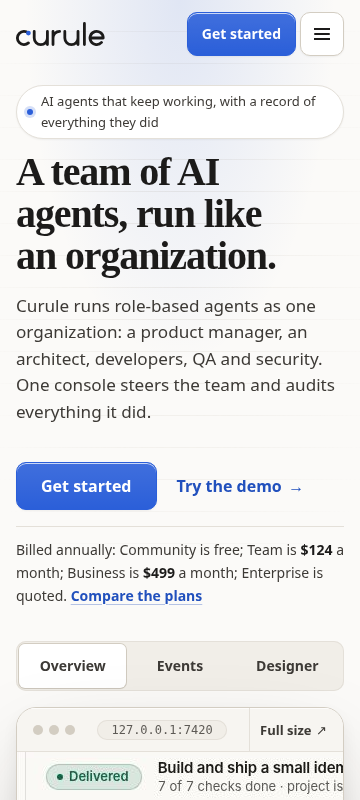
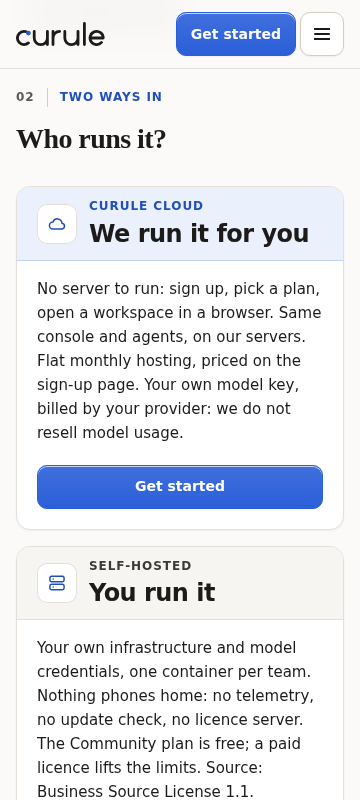
chore(ux): a seventeenth set of three passes of 1 Nov, with their before and after
The marketing site: the two ways in answer once, in one paragraph each (1180ac9).
The account pages: the head at 200% text, and its identity one sentence (0032fad).
The console: the 320 first screen is the same receipt, and its figures keep their units (caa7d6f).
The panel shows where the three surfaces stand now.

diff --git a/site/ux/index.html b/site/ux/index.html
@@ -53,7 +53,55 @@
   <h2>Where they stand now</h2>
   <div class="pair three"><a class="shot" href="shots/landing-now.png"><img src="shots/landing-now.png" alt="the landing page" loading="lazy"><span>the landing page</span></a><a class="shot" href="shots/account-now.png"><img src="shots/account-now.png" alt="the account pages" loading="lazy"><span>the account pages</span></a><a class="shot" href="shots/console-now.png"><img src="shots/console-now.png" alt="the console" loading="lazy"><span>the console</span></a></div>
 </section>
-<p class="stat"><span><b>96</b> passes</span><span><b>95</b> merged</span><span><b>4</b> surfaces</span><span>updated 31 Oct 2026 22:25</span></p>
+<p class="stat"><span><b>99</b> passes</span><span><b>98</b> merged</span><span><b>4</b> surfaces</span><span>updated 1 Nov 2026 04:12</span></p>
+<article class="pass">
+  <header>
+    <h2>the marketing site</h2>
+    <p class="when">1 Nov 2026 &middot; 04:12</p>
+  </header>
+  <div class="pair"><a class="shot" href="shots/20261101-0412-before.png"><img src="shots/20261101-0412-before.png" alt="The two ways in at 360 x 800, light, scrolled to 2,929: the pinned bar, &quot;02 Two ways in&quot; at 88 and &quot;Who runs it?&quot; at 114. The Curule Cloud card runs 186&ndash;594 &mdash; a tinted head 187&ndash;261, a &quot;Who it is for&quot; label at 277 with a three-line answer 302&ndash;374, a &quot;What you pay&quot; label at 388 with a four-line answer 413&ndash;509, and Get started at 529&ndash;573. The self-hosted card begins at 610 and its second answer runs 861&ndash;981, cut by the foot of the frame." loading="lazy"><span>before this pass &middot; the two ways in</span></a><a class="shot" href="shots/20261101-0412-after.png"><img src="shots/20261101-0412-after.png" alt="The same frame after this pass: the same head at 88 and 114, and the Cloud card now runs 186&ndash;530 &mdash; head 187&ndash;261, one seven-line paragraph 277&ndash;445, Get started 465&ndash;509. The self-hosted card begins at 546, 64px higher, its head 547&ndash;620 and its paragraph 636&ndash;804 where the frame ends. Neither card has a label row or a 16px mark." loading="lazy"><span>after</span></a></div>
+  <div class="pair"><a class="shot" href="shots/20261101-0412-before-2.png"><img src="shots/20261101-0412-before-2.png" alt="The same page at 360, scrolled to 3,432: the first card's Get started at 26&ndash;70 and its border closing at 91, then the self-hosted card 107&ndash;563 with its head 108&ndash;182, its two label rows and their four- and five-line answers, and Try the demo at 498&ndash;542. The console's band starts at 611 and its head at 660 is cut at 800; the swipe hint at 854 and the six tabs at 907&ndash;951 are below the frame." loading="lazy"><span>before this pass &middot; what follows the two ways in</span></a><a class="shot" href="shots/20261101-0412-after-2.png"><img src="shots/20261101-0412-after-2.png" alt="The same frame: the first card closes at 27, and the self-hosted card runs 43&ndash;386 &mdash; head 44&ndash;117, one paragraph 133&ndash;301, Try the demo 321&ndash;365. The console band starts at 434, 177px higher, so the frame now holds its head 483&ndash;645, the swipe hint 677&ndash;722 and the six 44px tabs at 730&ndash;774." loading="lazy"><span>after</span></a></div>
+  <ul class="did">
+<li><b>The two ways in answer once, in one paragraph each.</b> Each card's four answers were a definition list: four 25.19px label rows and two 14px gaps in a 455.75px card. They are one paragraph now, and <code>#ways</code> is <b>1,026.05 &rarr; 849.30px</b> at 360, its cards <b>407.75 / 455.75 &rarr; 343.38 / 343.38</b>; at 320 1,153.23 &rarr; 952.48, at 768 646.28 &rarr; 527.91 and at 1,440 651.48 &rarr; 533.11.</li>
+<li><b>Every claim is kept, and the licence card stops repeating the rate card.</b> The one answer that repeated the section 834px above it &mdash; &quot;one open project, up to ten agents, no licence key&quot; &mdash; is gone from the home page; the pricing page's comparison keeps it. The section's words are 134 &rarr; 114 and the four answers 91 &rarr; 81.</li>
+<li><b>The rest of the page comes 177px sooner.</b> The console's band begins at 434 instead of 611 in the second frame: <code>#product</code> 4,042.98 &rarr; 3,866.23 and <code>#try</code> 4,896.08 &rarr; 4,719.33 at 360, and the page 12,891 &rarr; 12,714.</li>
+<li><b>With Curule Cloud closed the one card's paragraph runs in two columns</b>, where its two answers sat side by side before: <code>#ways</code> 633.66 &rarr; 521.28 at 360 and the card 455.75 &rarr; 343.38.</li>
+<li><b>Not worse, measured.</b> Horizontal page scroll <b>0</b> across 70 page/width/theme pairs (seven pages &times; 320/360/390/768/1,440 &times; light and dark); <b>0</b> axe-core WCAG 2.0&ndash;2.2 A/AA violations in 6 reads; no script, forced colours and print all 0px over; the other six pages unchanged at every width.</li>
+</ul>
+  <p class="meta">12 files changed &middot; <code>1180ac9</code> &middot; suite green, merged</p>
+</article>
+<article class="pass">
+  <header>
+    <h2>the account pages</h2>
+    <p class="when">1 Nov 2026 &middot; 04:13</p>
+  </header>
+  <div class="pair"><a class="shot" href="shots/20261101-0413-before.png"><img src="shots/20261101-0413-before.png" alt="The top of the account at 360 x 800, light, with the reader's text at 200% (a 32px root): the 141px bar, the caption at 165&ndash;241.8 over two lines, &quot;Your account&quot; at 249.8&ndash;370.7 over two lines at 56px, and the identity at 374.7&ndash;541.1 over four lines. The contents line is at 558.1&ndash;645.1, 01 Workspaces at 685.1 and the record's top at 746.1; the record's Open is at 908.3, 108.3px below the screen." loading="lazy"><span>before this pass &middot; the head at 200% text</span></a><a class="shot" href="shots/20261101-0413-after.png"><img src="shots/20261101-0413-after.png" alt="The same page, width, scheme and root. The head is 259.6px instead of 417.1: the caption still two lines, the title one line at 43.2px (249.8&ndash;296.5) and the identity two lines (300.4&ndash;383.6). The contents line is at 400.6&ndash;487.6, 01 Workspaces at 527.6, the record at 588.6 and its Open &mdash; the page's primary button, 48px &mdash; at 750.8&ndash;798.8, wholly inside the screen. The page is 3,928px against 4,086." loading="lazy"><span>after</span></a></div>
+  <div class="pair"><a class="shot" href="shots/20261101-0413-before-2.png"><img src="shots/20261101-0413-before-2.png" alt="The signed-in account at 360 x 800, light, at the top: the 61px bar, CURULE CLOUD - YOUR ACCOUNT at 85, &quot;Your account&quot; at 112 in 28px, the identity at 146, the five-link contents line 184&ndash;228, 01 Workspaces at 268 and the record at 306 with Research, Running and Open / Pause / More at 408&ndash;456." loading="lazy"><span>before this pass &middot; the account at normal text</span></a><a class="shot" href="shots/20261101-0413-after-2.png"><img src="shots/20261101-0413-after-2.png" alt="The same frame: every box is where it was &mdash; caption 85, title 112, identity 146, contents 184, 01 Workspaces 268, record 306, Open 408&ndash;456 &mdash; because the two new rules only bite at a raised root. The one measured difference is the identity's paragraph, 305px wide instead of 307." loading="lazy"><span>after</span></a></div>
+  <ul class="did">
+<li><b>At 200% text the head takes one line for its title.</b> 417.1 &rarr; <b>259.6px</b> at 360: the h1 is capped by its own line (<code>min(clamp(&hellip;), 12vw)</code>), so it is 43.2px on one line where it was 56px on two (120.9px), and the identity is a paragraph of inline text, two lines (83.2px) instead of four (166.4).</li>
+<li><b>The record's Open is on the first screen.</b> y 908.3 &rarr; <b>750.8&ndash;798.8</b>, wholly inside an 800px screen; at 390 881.7 &rarr; 769.7 and at 320 951.3 &rarr; 830.2. The page is 4,086 &rarr; 3,928 at 360.</li>
+<li><b>The identity is one sentence, and the address fills each line.</b> <code>#who</code> is a paragraph with <code>word-break: break-all</code>; at normal text it is 305px where the flex row gave 307, and it costs no extra rule at any width.</li>
+<li><b>The plan-less account no longer scrolls sideways at a raised root.</b> Its plan row is <code>minmax(0, 1fr)</code>: 377px wide on a 360 phone &rarr; <b>360</b>, the Team card 361 &rarr; 328, the page 2,722 &rarr; 2,685.</li>
+<li><b>Nothing moves at normal text.</b> The head is 123.2px at 360, the record's Open at y 408.9 and the page 1,904 &mdash; the same at 320/360/390/620/768/1,440; <b>0</b> axe-core WCAG 2.0&ndash;2.2 A/AA violations in 17 reads (dark, forced colours and the raised root included), 0 console errors, 878 cloud tests green.</li>
+</ul>
+  <p class="meta">3 files changed &middot; <code>0032fad</code> &middot; suite green, merged</p>
+</article>
+<article class="pass">
+  <header>
+    <h2>the console</h2>
+    <p class="when">1 Nov 2026 &middot; 04:14</p>
+  </header>
+  <div class="pair"><a class="shot" href="shots/20261101-0414-before.png"><img src="shots/20261101-0414-before.png" alt="The console's Overview at 320 x 800, light, on the delivered demo, scrolled to the top: the 64px topbar, &quot;Overview&quot; at 78, then a 673px hero from 117.6 to 790.6 &mdash; the goal over three lines (67.5px) at 228.4, a 96px block of actions at 303.9 with Open the product across the full 262px and its 44px menu on a row of its own at 355.9, the four figures from 419.9 to 744.6 with &quot;51.0k of&quot; / &quot;2.0M&quot; over two lines, and the Why this is done door. The first evidence row begins at 802.6, 55.6px below the 53px dock at 747." loading="lazy"><span>before this pass &middot; the 320 first screen</span></a><a class="shot" href="shots/20261101-0414-after.png"><img src="shots/20261101-0414-after.png" alt="The same frame after this pass. The hero is 565.5px, 117.6 to 683.1: the goal two lines (45px) with GOAL a prefix on the first, the actions one 44px row at 281.4 (Open the product 218px and its menu), and the four 20px figures from 345.4 to 637.1 with &quot;51.0k of 2.0M&quot; on one line. The first evidence row begins at 695.1 and its 44px head (700.1&ndash;744.1) is whole above the 747 dock, with What shipped, 3 of 9 delivered and Show on one line; the page is 943." loading="lazy"><span>after</span></a></div>
+  <div class="pair"><a class="shot" href="shots/20261101-0414-before-2.png"><img src="shots/20261101-0414-before-2.png" alt="At 320, scrolled to 200: the goal's last line under the topbar, the 96px action block (Open the product at 103.9, its menu at 155.9), the figures from 219.9 to 544.6 with &quot;51.0k of&quot; / &quot;2.0M&quot; over two lines, and the closed rows from 602.6 &mdash; &quot;What / shipped&quot; over two lines with &quot;3 of 9 delive&hellip;&quot;, &quot;Goal / checks&quot; over two lines with &quot;7 of 7 evidenc&hellip;&quot; &mdash; above the dock at 747." loading="lazy"><span>before this pass &middot; the same receipt, scrolled</span></a><a class="shot" href="shots/20261101-0414-after-2.png"><img src="shots/20261101-0414-after-2.png" alt="The same frame after this pass: the action row is one 44px row at 81.4, the 20px figures run 145.4 to 437.1 with &quot;51.0k of 2.0M&quot; on one line, and the four rows begin at 495.1, each one line with its whole figure (&quot;3 of 9 delivered&quot;, &quot;6 steps&quot;, &quot;7 of 7 evidenced&quot;, &quot;491 events&quot;) and a 48.4px Show." loading="lazy"><span>after</span></a></div>
+  <ul class="did">
+<li><b>The 320 first screen is the receipt the 360 screen already had.</b> The hero is 673 &rarr; <b>565.53px</b>, so the first evidence row begins at 695.13 instead of 802.59 &mdash; 55.59px below the 53px dock before, its 44px head (700.13&ndash;744.13) whole above it now. The page is 1,051 &rarr; 943.</li>
+<li><b>The goal takes two lines, and GOAL is a prefix.</b> 67.5 &rarr; <b>45px</b>: the label sits inline in the sentence's box, and the hero now emits a real space between them &mdash; inline, the two were drawn as &quot;GoalBuild&quot;.</li>
+<li><b>The actions are one row.</b> 96 &rarr; <b>44px</b>: the primary is 218px and its 44px menu stands beside it at 281.4 instead of on a row of its own at 355.9.</li>
+<li><b>The figures keep their units.</b> 24 &rarr; 20px at 320 (324.72 &rarr; 291.75), so &quot;51.0k of 2.0M&quot; is one 23px line instead of two (55.19) and the cells are 142.97 / 147.78. A closed row's head is one line with its whole figure: &quot;3 of 9 delivered&quot;, &quot;7 of 7 evidenced&quot;.</li>
+<li><b>Nothing at 341px and wider moves.</b> 360/390/620/768/1,440 are pixel-identical; 1,215 dashboard tests and the full suite (6,445, 2 skipped) are green; <b>0</b> axe-core violations at 320 and 360; the 11 tab stops are unchanged and no in-page control is under 44 &times; 44.</li>
+</ul>
+  <p class="meta">4 files changed &middot; <code>caa7d6f</code> &middot; suite green, merged</p>
+</article>
 <article class="pass">
   <header>
     <h2>the marketing site</h2>
